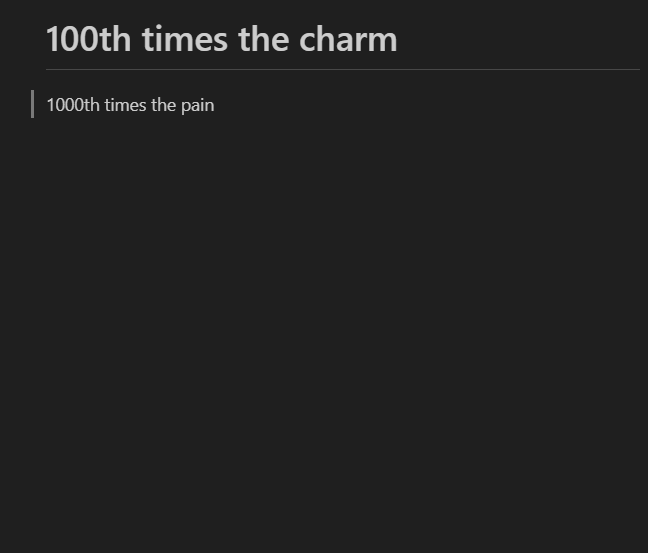
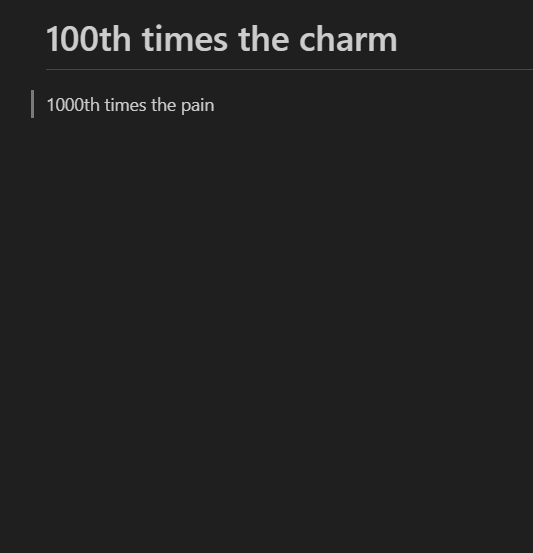
scalling needs to be tweaked

Changed region(s): [[0.06, 0.0307, 0.7505, 0.0922], [0.03, 0.1537, 0.4203, 0.2152]]

diff --git a/css/Esmp.css b/css/Esmp.css
@@ -50,8 +50,8 @@ body {
 }
 
 .item img{
-    height: 100%;
-    width: 100%;
+    height: 240;
+    width: 240px;
     object-fit: fill;
 }
 
